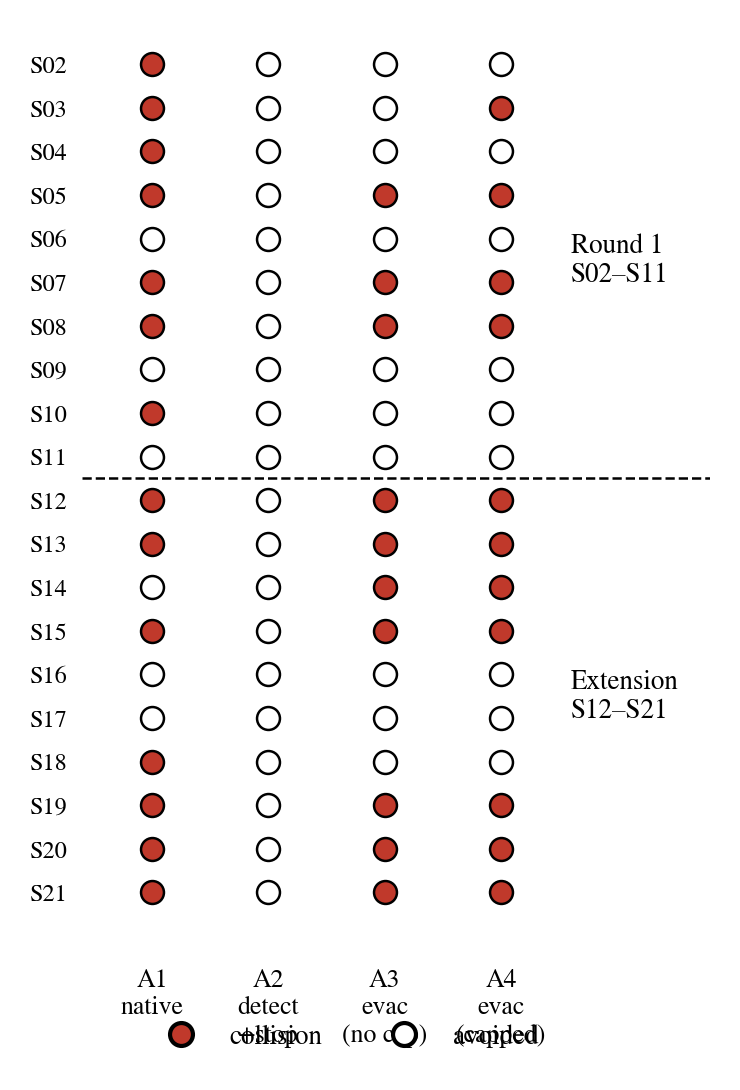
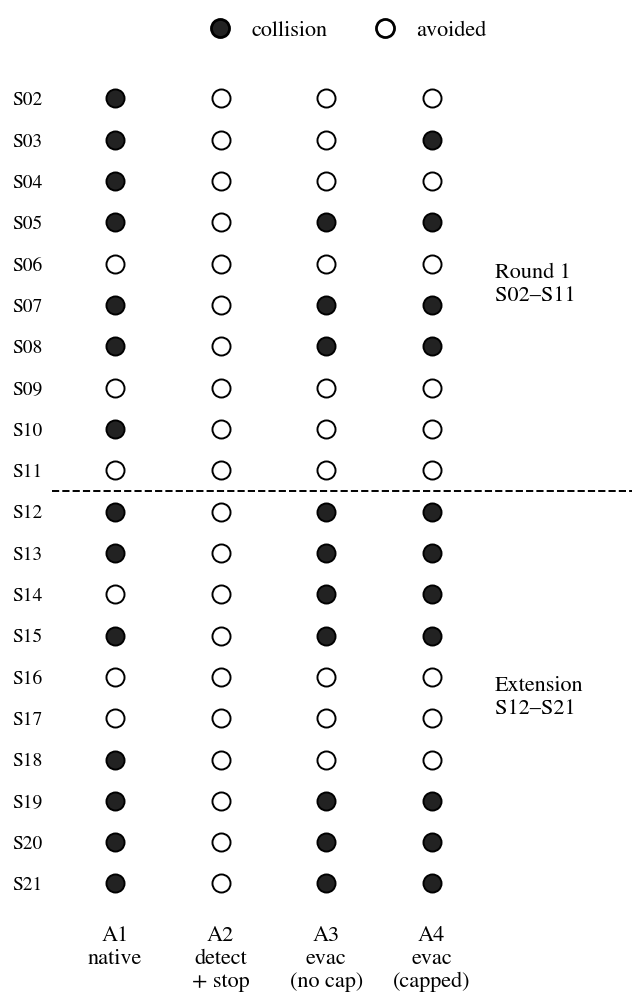
figs/en: ablation matrix to B/W fill (no red), fix legend overlap; move map-path figures (evac_trajectory, stop_positions, route_overlay) to en/unused — keep candidates_map only in paper
Claude-Session: https://claude.ai/code/session_01NtLkxt91PCkwwW6kGTEs5W

diff --git a/doc/figs/src/fig_ablation_matrix_en.py b/doc/figs/src/fig_ablation_matrix_en.py
@@ -1,0 +1,45 @@
+#!/usr/bin/env python3
+"""fig_ablation_matrix_en.png — ablation seed x arm dot matrix (English).
+0826: no red fill (B/W: collision = filled black, avoided = open circle); legend moved to top."""
+import matplotlib
+matplotlib.use("Agg")
+import matplotlib.pyplot as plt
+
+plt.rcParams.update({
+    "font.family": "serif",
+    "font.serif": ["STIXGeneral", "DejaVu Serif"],
+    "mathtext.fontset": "stix",
+})
+
+seeds = ['S02','S03','S04','S05','S06','S07','S08','S09','S10','S11',
+         'S12','S13','S14','S15','S16','S17','S18','S19','S20','S21']
+C = {'A1': ['S02','S03','S04','S05','S07','S08','S10','S12','S13','S15','S18','S19','S20','S21'],
+     'A2': [],
+     'A3': ['S05','S07','S08','S12','S13','S14','S15','S19','S20','S21'],
+     'A4': ['S03','S05','S07','S08','S12','S13','S14','S15','S19','S20','S21']}
+arms = ['A1','A2','A3','A4']
+labels = ['A1\nnative', 'A2\ndetect\n+ stop', 'A3\nevac\n(no cap)', 'A4\nevac\n(capped)']
+
+fig, ax = plt.subplots(figsize=(3.4, 5.2), dpi=200)
+for j, a in enumerate(arms):
+    for i, s in enumerate(seeds):
+        hit = s in C[a]
+        ax.plot(j, len(seeds) - 1 - i, marker='o', ms=6.5,
+                mfc=('#222222' if hit else 'white'), mec='black', mew=0.7, ls='none')
+ax.axhline(len(seeds) - 10 - 0.5, color='black', lw=0.7, ls='--')
+ax.text(3.6, len(seeds) - 5.5, 'Round 1\nS02–S11', fontsize=8, va='center')
+ax.text(3.6, 4.5, 'Extension\nS12–S21', fontsize=8, va='center')
+ax.set_xticks(range(4)); ax.set_xticklabels(labels, fontsize=8)
+ax.set_yticks(range(len(seeds))); ax.set_yticklabels(seeds[::-1], fontsize=7)
+ax.set_xlim(-0.6, 4.9); ax.set_ylim(-0.8, len(seeds) - 0.2)
+for sp in ax.spines.values():
+    sp.set_visible(False)
+ax.tick_params(length=0)
+ax.plot([], [], marker='o', mfc='#222222', mec='black', ls='none', ms=6.5, label='collision')
+ax.plot([], [], marker='o', mfc='white', mec='black', ls='none', ms=6.5, label='avoided')
+ax.legend(loc='lower center', bbox_to_anchor=(0.5, 1.005), ncol=2, fontsize=8,
+          frameon=False, handletextpad=0.4, columnspacing=1.6)
+fig.tight_layout()
+fig.savefig('/home/taewook/autoware_carla_leaderboard/doc/figs/en/fig_ablation_matrix_en.png',
+            bbox_inches='tight', pad_inches=0.06, facecolor='white')
+print('saved')
